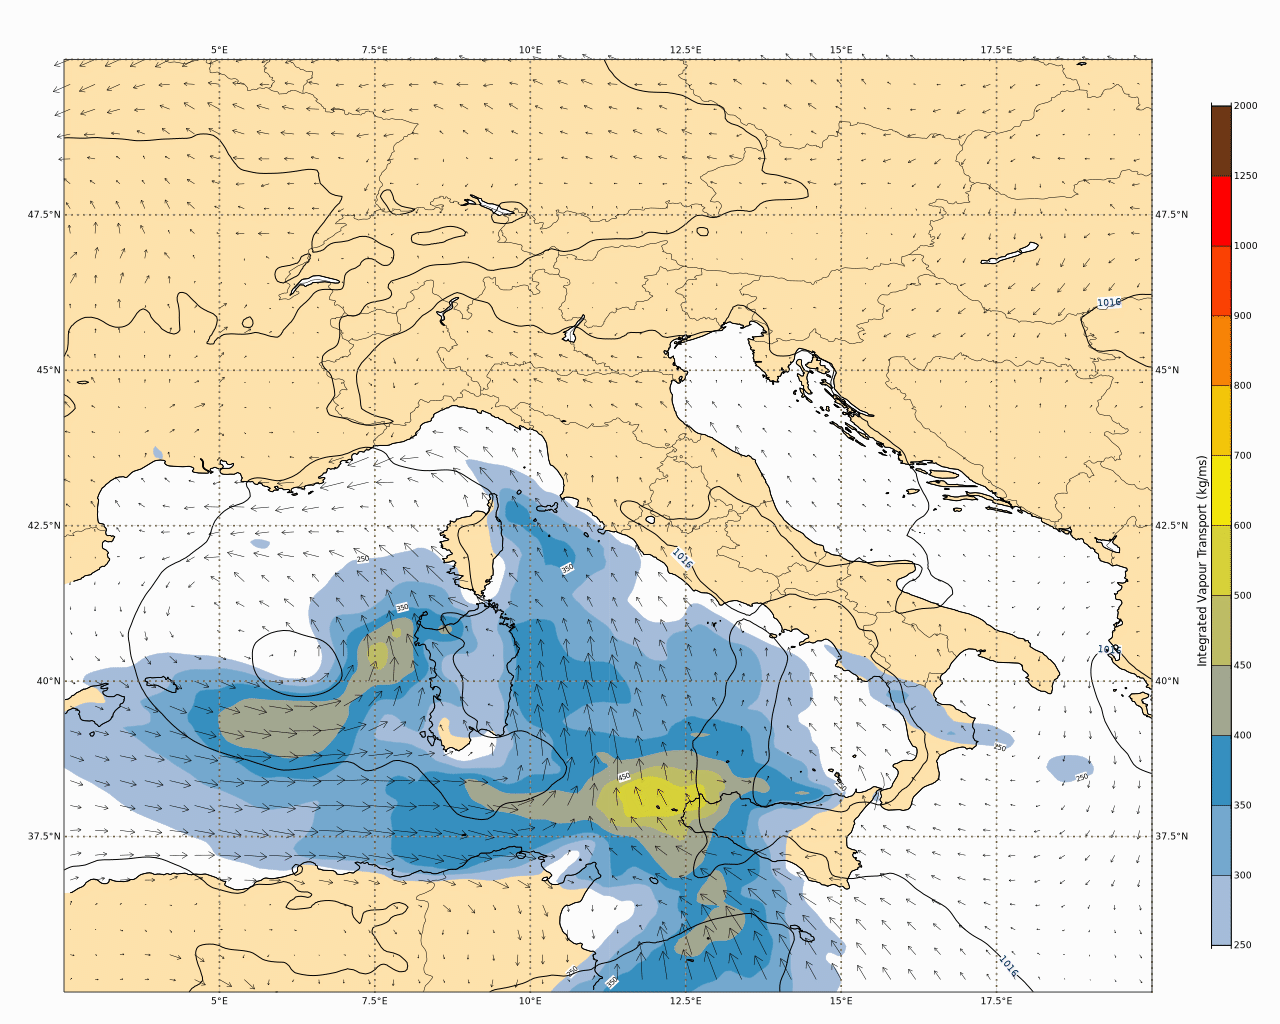
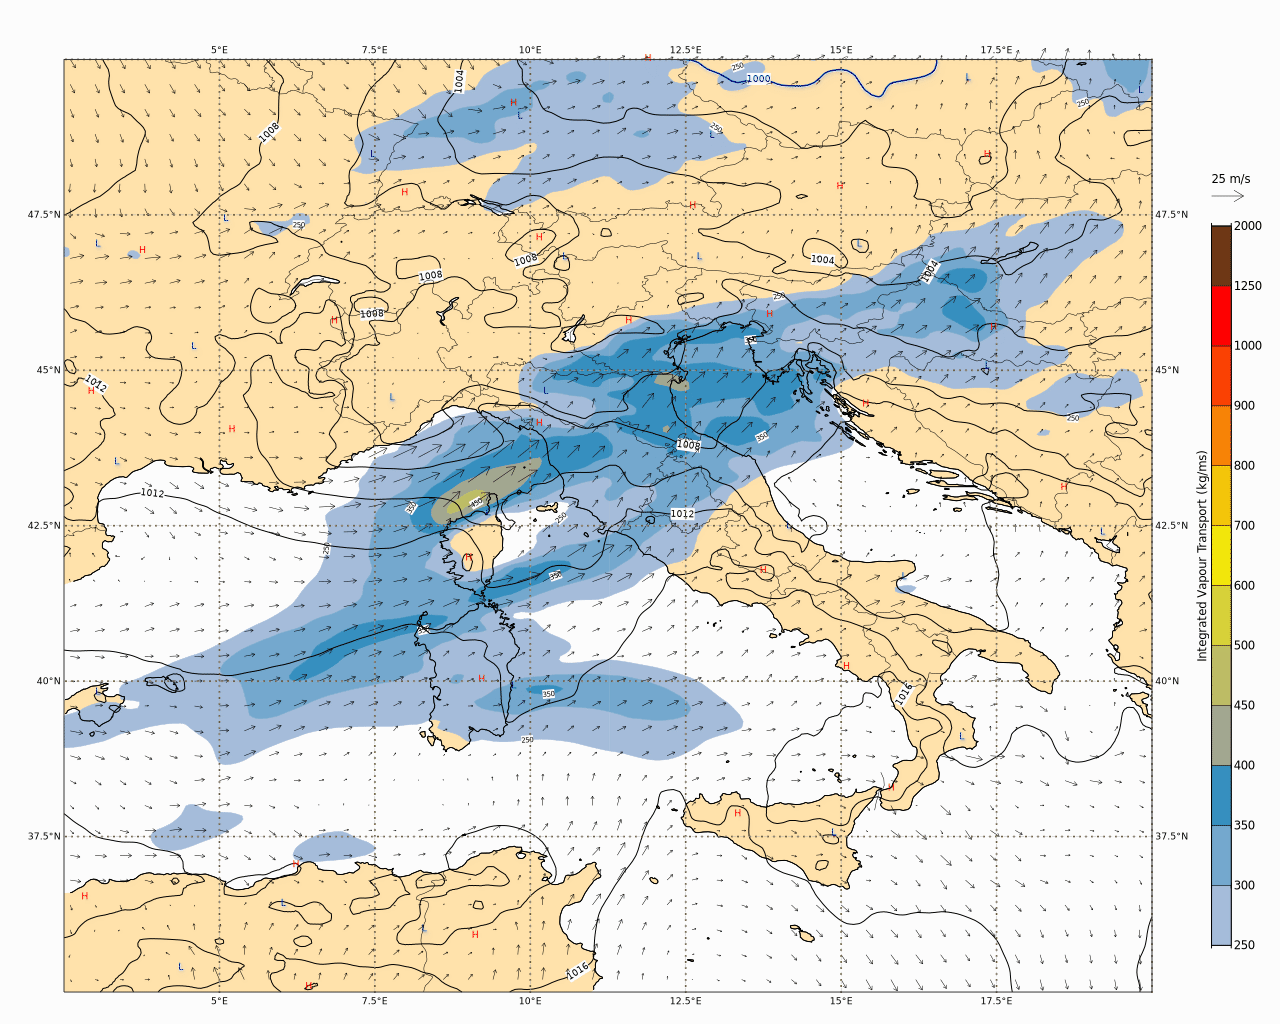
updated ivt contouring

diff --git a/doc/recipes/standalone/ivt.md b/doc/recipes/standalone/ivt.md
@@ -169,7 +169,7 @@ With arguments:
     "legend_display_type": "continuous",
     "legend_automatic_position": "right",
     "legend_text_colour": "black",
-    "legend_text_font_size": 0.4,
+    "legend_text_font_size": 0.5,
     "legend_title_font_size": 0.5
   }
 }
@@ -201,15 +201,21 @@ With arguments:
     "contour_shade": false,
     "contour": true,
     "contour_level_selection_type": "interval",
-    "contour_interval": 4,
+    "contour_interval": 2,
+    "contour_line_style": "solid",
     "contour_line_colour": "black",
+    "contour_reference_level": 1000,
     "contour_line_thickness": 2,
-    "contour_highlight": false,
+    "contour_hilo": true,
+    "contour_hilo_type": "text",
+    "contour_lo_colour": "blue",
+    "contour_hi_colour": "red",
+    "contour_hilo_window_size": 5,
+    "contour_highlight_frequency": 100,
+    "contour_highlight_colour": "blue",
     "contour_label": true,
     "contour_label_height": 0.4,
     "contour_label_frequency": 2,
-    "contour_label_blanking": true,
-    "contour_label_colour": "navy",
     "legend": false
   }
 }
@@ -239,10 +245,18 @@ With arguments:
     "wind_arrow_head_shape": 0,
     "wind_arrow_head_ratio": 0.6,
     "wind_arrow_unit_velocity": 25,
-    "wind_flag_origin_marker": "off",
-    "wind_flag_cross_boundary": "on",
+    "wind_flag_origin_marker": false,
+    "wind_flag_cross_boundary": true,
     "wind_thinning_method": "automatic",
-    "wind_thinning_factor": 1
+    "wind_thinning_factor": 1,
+    "legend": true,
+    "legend_title": true,
+    "legend_title_text": "Integrated Vapour Transport (kg/ms)",
+    "legend_display_type": "continuous",
+    "legend_automatic_position": "right",
+    "legend_text_colour": "black",
+    "legend_text_font_size": 0.5,
+    "legend_title_font_size": 0.5
   }
 }
 ```